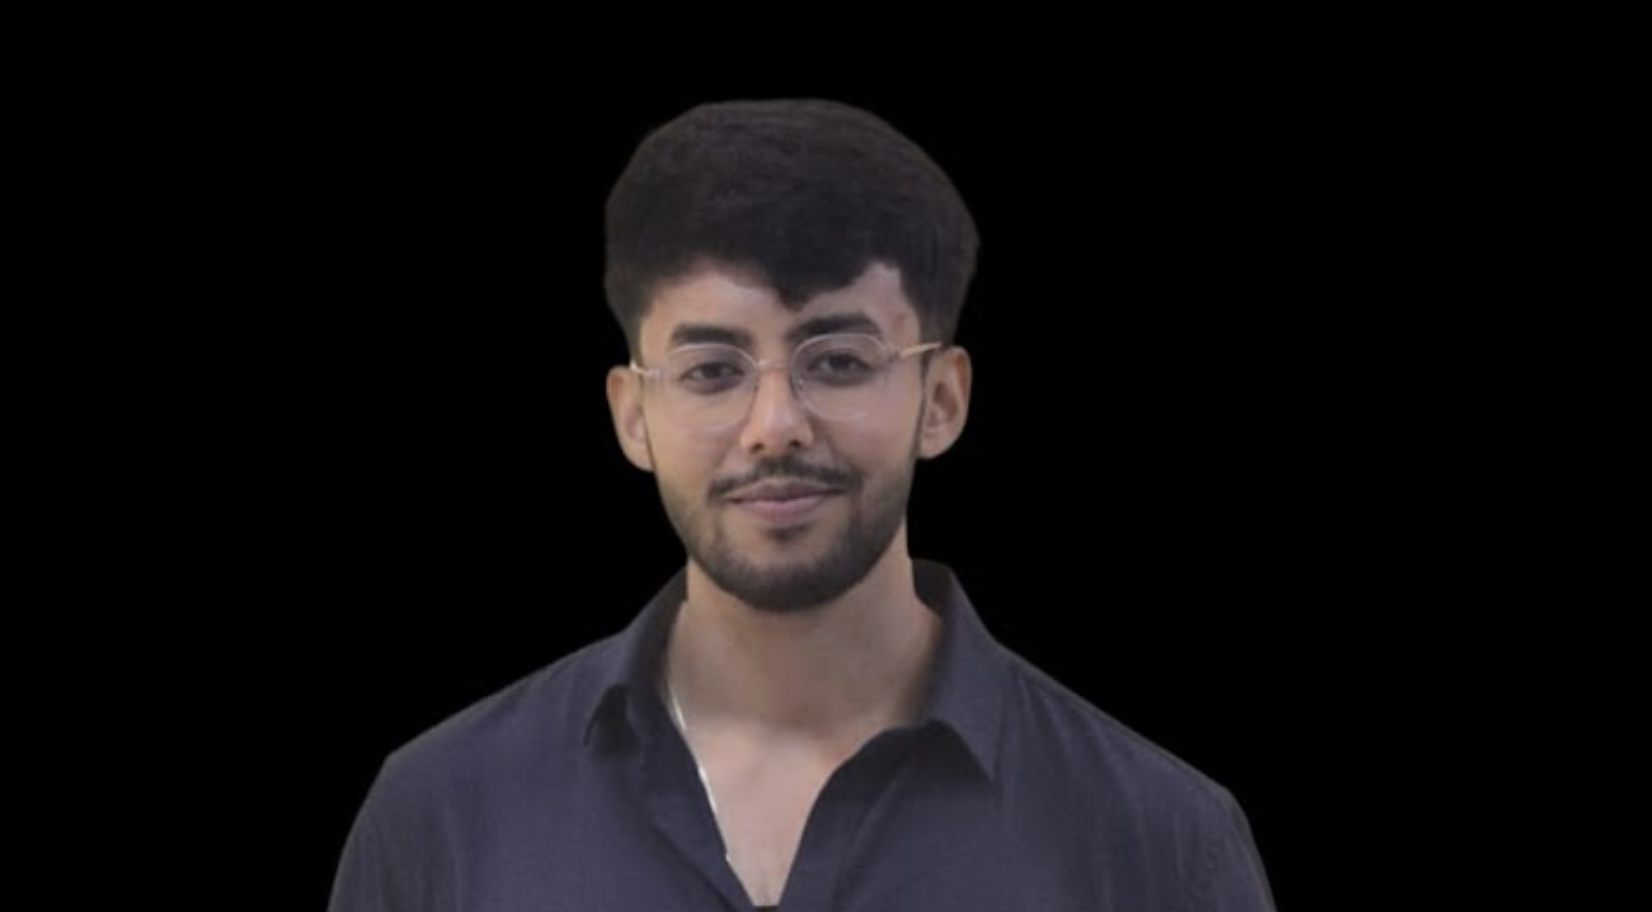
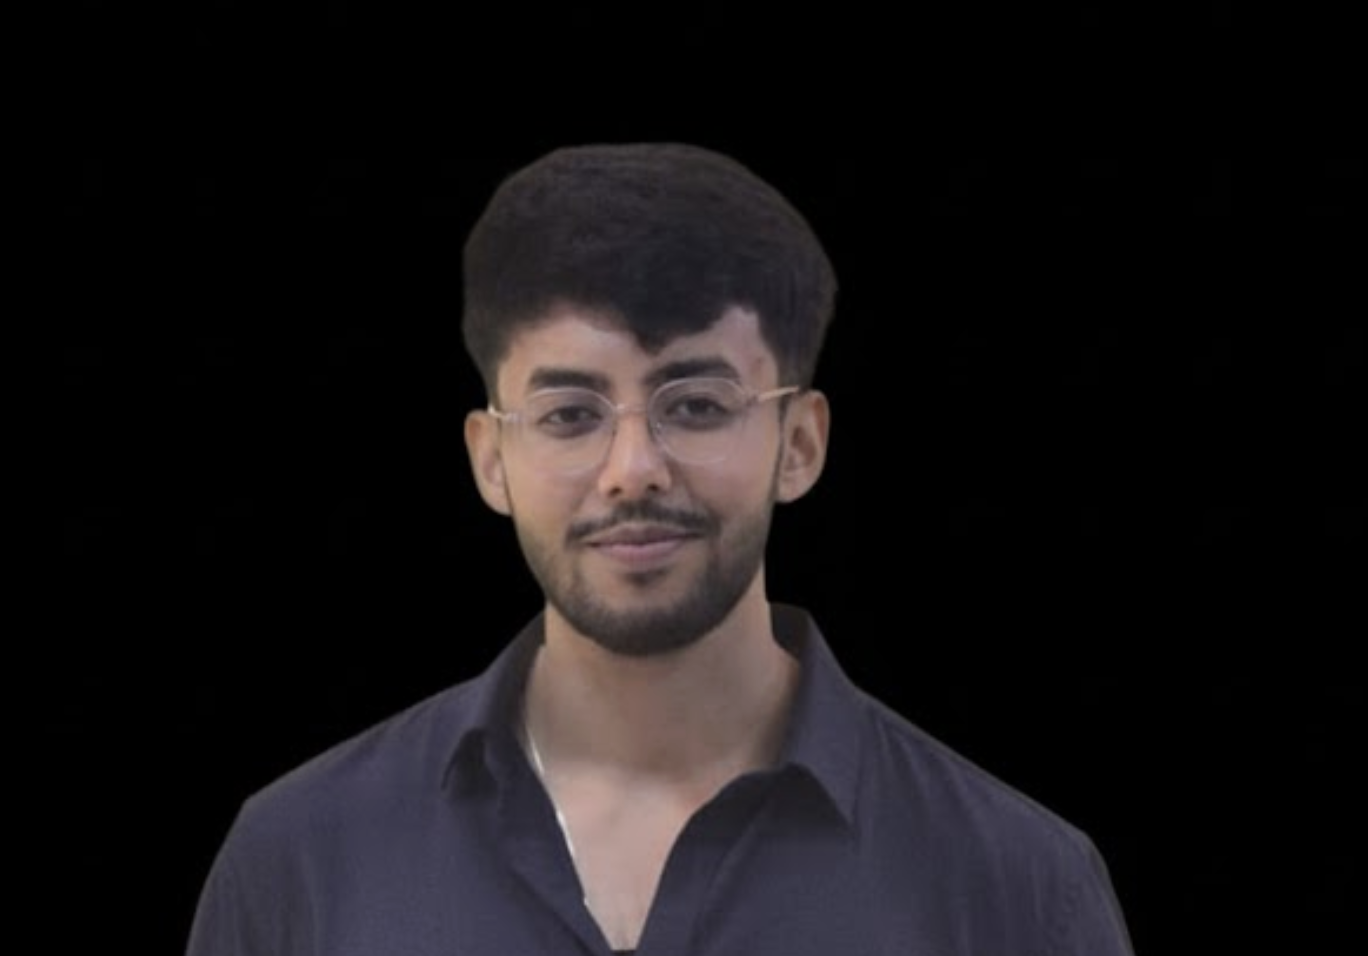
Fix: Remove grayscale from profile picture

diff --git a/src/components/HeroSection.tsx b/src/components/HeroSection.tsx
@@ -95,7 +95,7 @@ const HeroSection = () => {
               <img 
                 src={headshot}
                 alt="Aayush Anand - Product & Operations Leader"
-                className="w-full h-full grayscale rounded-full object-cover object-center"
+                className="w-full h-full rounded-full object-cover object-center"
               />
             </div>
           </div>
